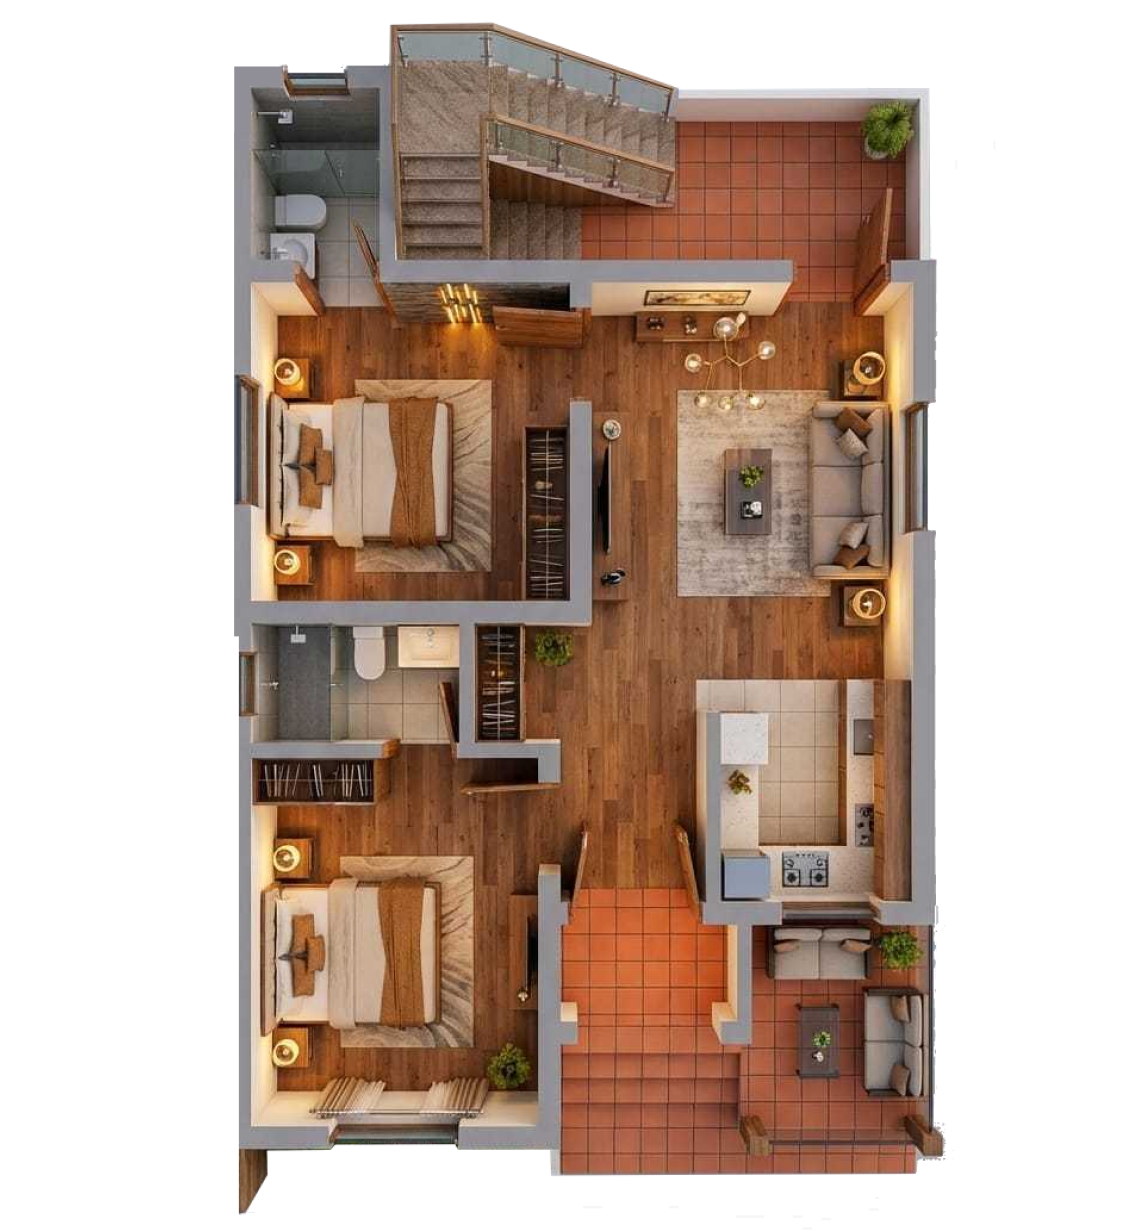
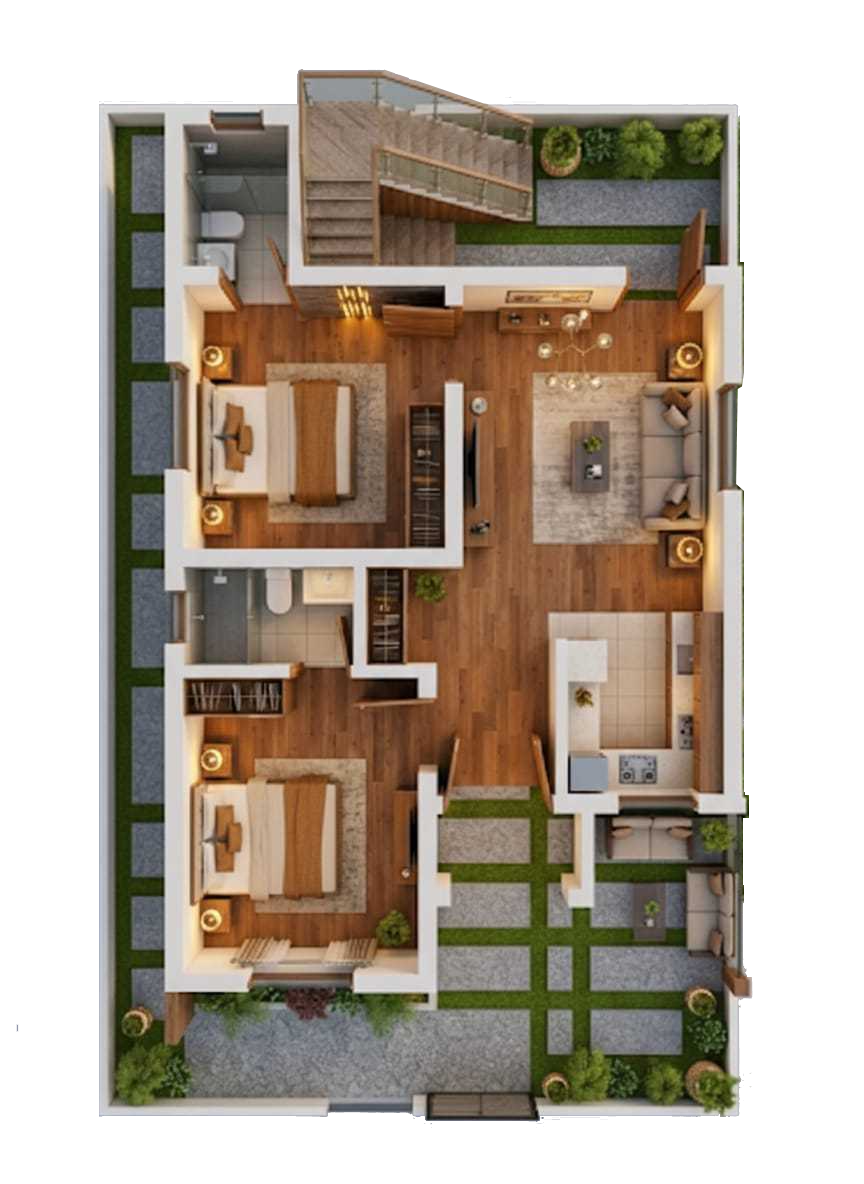
Design and Content changes

diff --git a/house.html b/house.html
@@ -76,9 +76,11 @@
                                                                     <p><i class="fa-solid fa-hand-point-right me-2"></i>
                                                                         Renovation &
                                                                         Remodeling</p>
-                                                                    <p><i class="fa-solid fa-hand-point-right me-2"></i>
+                                                                        <p><i class="fa-solid fa-hand-point-right me-2"></i>
                                                                         Interior
                                                                         Works</p>
+                                                                         <p><i class="fa-solid fa-hand-point-right me-2"></i>
+                                                                        Interlock construction</p>
                                                                 </div>
 
 
@@ -162,8 +164,12 @@
                                                                         False Ceiling</p>
                                                                     <p><i class="fa-solid fa-hand-point-right me-2"></i>
                                                                         Wardrobes</p>
-                                                                    <p><i class="fa-solid fa-hand-point-right me-2"></i>
+                                                                      <p><i class="fa-solid fa-hand-point-right me-2"></i>
                                                                         Wall Decor</p>
+                                                                        <p><i class="fa-solid fa-hand-point-right me-2"></i>
+                                                                       Landscape work </p>
+                                                                   
+
                                            
                                                                     <p><i class="fa-solid fa-hand-point-right me-2"></i>Exterior Elevation</p>
 
@@ -224,6 +230,7 @@
                                                 <a href="house.html"> <li  class="nav-item">Villas & Independent Homes</li> </a> 
                                                 <a href="house.html"> <li  class="nav-item">Renovation & Remodeling</li> </a> 
                                                 <a href="house.html"> <li  class="nav-item">Interior Works</li> </a> 
+                                                 <a href="house.html"> <li  class="nav-item"> Interlock construction</li> </a> 
                                             </ul>
                                             </li>
 
@@ -548,7 +555,7 @@
                             </div>
                             <div class="project-info-content">
                                 <p>Minimum Construction Duration</p>
-                                <h3>120 – 180 Days</h3>
+                                <h3>5 - 6 Months</h3>
                             </div>
                         </div>
 

diff --git a/blog-detail.html b/blog-detail.html
@@ -164,9 +164,11 @@
                                                                     <p><i class="fa-solid fa-hand-point-right me-2"></i>
                                                                         Renovation &
                                                                         Remodeling</p>
-                                                                    <p><i class="fa-solid fa-hand-point-right me-2"></i>
+                                                                        <p><i class="fa-solid fa-hand-point-right me-2"></i>
                                                                         Interior
                                                                         Works</p>
+                                                                         <p><i class="fa-solid fa-hand-point-right me-2"></i>
+                                                                        Interlock construction</p>
                                                                 </div>
 
 
@@ -255,8 +257,10 @@
                                                                         False Ceiling</p>
                                                                     <p><i class="fa-solid fa-hand-point-right me-2"></i>
                                                                         Wardrobes</p>
-                                                                    <p><i class="fa-solid fa-hand-point-right me-2"></i>
+                                                                      <p><i class="fa-solid fa-hand-point-right me-2"></i>
                                                                         Wall Decor</p>
+                                                                        <p><i class="fa-solid fa-hand-point-right me-2"></i>
+                                                                       Landscape work </p>
 
                                                                     <p><i
                                                                             class="fa-solid fa-hand-point-right me-2"></i>Exterior
@@ -328,8 +332,11 @@
                                                     <a href="house.html">
                                                         <li class="nav-item">Renovation & Remodeling</li>
                                                     </a>
-                                                    <a href="house.html">
+                                                     <a href="house.html">
                                                         <li class="nav-item">Interior Works</li>
+                                                    </a>
+                                                        <a href="house.html">
+                                                        <li class="nav-item">Interlock construction</li>
                                                     </a>
                                                 </ul>
                                             </li>

diff --git a/about.html b/about.html
@@ -81,9 +81,11 @@
                                                                     <p><i class="fa-solid fa-hand-point-right me-2"></i>
                                                                         Renovation &
                                                                         Remodeling</p>
-                                                                    <p><i class="fa-solid fa-hand-point-right me-2"></i>
+                                                                        <p><i class="fa-solid fa-hand-point-right me-2"></i>
                                                                         Interior
                                                                         Works</p>
+                                                                         <p><i class="fa-solid fa-hand-point-right me-2"></i>
+                                                                        Interlock construction</p>
                                                                 </div>
 
 
@@ -172,8 +174,10 @@
                                                                         False Ceiling</p>
                                                                     <p><i class="fa-solid fa-hand-point-right me-2"></i>
                                                                         Wardrobes</p>
-                                                                    <p><i class="fa-solid fa-hand-point-right me-2"></i>
+                                                                      <p><i class="fa-solid fa-hand-point-right me-2"></i>
                                                                         Wall Decor</p>
+                                                                        <p><i class="fa-solid fa-hand-point-right me-2"></i>
+                                                                       Landscape work </p>
 
                                                                     <p><i
                                                                             class="fa-solid fa-hand-point-right me-2"></i>Exterior
@@ -245,8 +249,11 @@
                                                     <a href="house.html">
                                                         <li class="nav-item">Renovation & Remodeling</li>
                                                     </a>
-                                                    <a href="house.html">
+                                                     <a href="house.html">
                                                         <li class="nav-item">Interior Works</li>
+                                                    </a>
+                                                        <a href="house.html">
+                                                        <li class="nav-item">Interlock construction</li>
                                                     </a>
                                                 </ul>
                                             </li>

diff --git a/blog.html b/blog.html
@@ -81,9 +81,11 @@
                                                                     <p><i class="fa-solid fa-hand-point-right me-2"></i>
                                                                         Renovation &
                                                                         Remodeling</p>
-                                                                    <p><i class="fa-solid fa-hand-point-right me-2"></i>
+                                                                        <p><i class="fa-solid fa-hand-point-right me-2"></i>
                                                                         Interior
                                                                         Works</p>
+                                                                         <p><i class="fa-solid fa-hand-point-right me-2"></i>
+                                                                        Interlock construction</p>
                                                                 </div>
 
 
@@ -172,8 +174,10 @@
                                                                         False Ceiling</p>
                                                                     <p><i class="fa-solid fa-hand-point-right me-2"></i>
                                                                         Wardrobes</p>
-                                                                    <p><i class="fa-solid fa-hand-point-right me-2"></i>
+                                                                      <p><i class="fa-solid fa-hand-point-right me-2"></i>
                                                                         Wall Decor</p>
+                                                                        <p><i class="fa-solid fa-hand-point-right me-2"></i>
+                                                                       Landscape work </p>
 
                                                                     <p><i
                                                                             class="fa-solid fa-hand-point-right me-2"></i>Exterior
@@ -245,8 +249,11 @@
                                                     <a href="house.html">
                                                         <li class="nav-item">Renovation & Remodeling</li>
                                                     </a>
-                                                    <a href="house.html">
+                                                     <a href="house.html">
                                                         <li class="nav-item">Interior Works</li>
+                                                    </a>
+                                                        <a href="house.html">
+                                                        <li class="nav-item">Interlock construction</li>
                                                     </a>
                                                 </ul>
                                             </li>

diff --git a/index.html b/index.html
@@ -82,9 +82,11 @@
                                                                     <p><i class="fa-solid fa-hand-point-right me-2"></i>
                                                                         Renovation &
                                                                         Remodeling</p>
-                                                                    <p><i class="fa-solid fa-hand-point-right me-2"></i>
+                                                                        <p><i class="fa-solid fa-hand-point-right me-2"></i>
                                                                         Interior
                                                                         Works</p>
+                                                                         <p><i class="fa-solid fa-hand-point-right me-2"></i>
+                                                                        Interlock construction</p>
                                                                 </div>
 
 
@@ -173,8 +175,10 @@
                                                                         False Ceiling</p>
                                                                     <p><i class="fa-solid fa-hand-point-right me-2"></i>
                                                                         Wardrobes</p>
-                                                                    <p><i class="fa-solid fa-hand-point-right me-2"></i>
+                                                                      <p><i class="fa-solid fa-hand-point-right me-2"></i>
                                                                         Wall Decor</p>
+                                                                        <p><i class="fa-solid fa-hand-point-right me-2"></i>
+                                                                       Landscape work </p>
 
                                                                     <p><i
                                                                             class="fa-solid fa-hand-point-right me-2"></i>Exterior
@@ -246,8 +250,11 @@
                                                     <a href="house.html">
                                                         <li class="nav-item">Renovation & Remodeling</li>
                                                     </a>
-                                                    <a href="house.html">
+                                                     <a href="house.html">
                                                         <li class="nav-item">Interior Works</li>
+                                                    </a>
+                                                        <a href="house.html">
+                                                        <li class="nav-item">Interlock construction</li>
                                                     </a>
                                                 </ul>
                                             </li>

diff --git a/contact.html b/contact.html
@@ -79,9 +79,11 @@
                                                                     <p><i class="fa-solid fa-hand-point-right me-2"></i>
                                                                         Renovation &
                                                                         Remodeling</p>
-                                                                    <p><i class="fa-solid fa-hand-point-right me-2"></i>
+                                                                        <p><i class="fa-solid fa-hand-point-right me-2"></i>
                                                                         Interior
                                                                         Works</p>
+                                                                         <p><i class="fa-solid fa-hand-point-right me-2"></i>
+                                                                        Interlock construction</p>
                                                                 </div>
 
 
@@ -171,8 +173,10 @@
                                                                         False Ceiling</p>
                                                                     <p><i class="fa-solid fa-hand-point-right me-2"></i>
                                                                         Wardrobes</p>
-                                                                    <p><i class="fa-solid fa-hand-point-right me-2"></i>
+                                                                      <p><i class="fa-solid fa-hand-point-right me-2"></i>
                                                                         Wall Decor</p>
+                                                                        <p><i class="fa-solid fa-hand-point-right me-2"></i>
+                                                                       Landscape work </p>
                                            
                                                                     <p><i class="fa-solid fa-hand-point-right me-2"></i>Exterior Elevation</p>
 
@@ -358,8 +362,7 @@
                         </div>
                         <div class="contact-info-body text-center">
                             <h3>call support center 24/7</h3>
-                            <p>+91 636 991 1989</p>
-                            <p>+91 904 750 8430</p>
+                            <p class="fs-12">+91 636 991 1989 <br> +91 904 750 8430</p>
                         </div>
                         <div class="cta-map">
                         <a href="#" class="map-link"> <i class="fa-solid fa-phone me-2"></i> Make a Call </a>

diff --git a/projects.html b/projects.html
@@ -79,9 +79,11 @@
                                                                     <p><i class="fa-solid fa-hand-point-right me-2"></i>
                                                                         Renovation &
                                                                         Remodeling</p>
-                                                                    <p><i class="fa-solid fa-hand-point-right me-2"></i>
+                                                                        <p><i class="fa-solid fa-hand-point-right me-2"></i>
                                                                         Interior
                                                                         Works</p>
+                                                                         <p><i class="fa-solid fa-hand-point-right me-2"></i>
+                                                                        Interlock construction</p>
                                                                 </div>
 
 
@@ -166,8 +168,10 @@
                                                                         False Ceiling</p>
                                                                     <p><i class="fa-solid fa-hand-point-right me-2"></i>
                                                                         Wardrobes</p>
-                                                                    <p><i class="fa-solid fa-hand-point-right me-2"></i>
+                                                                      <p><i class="fa-solid fa-hand-point-right me-2"></i>
                                                                         Wall Decor</p>
+                                                                        <p><i class="fa-solid fa-hand-point-right me-2"></i>
+                                                                       Landscape work </p>
 
                                                                     <p><i
                                                                             class="fa-solid fa-hand-point-right me-2"></i>Exterior
